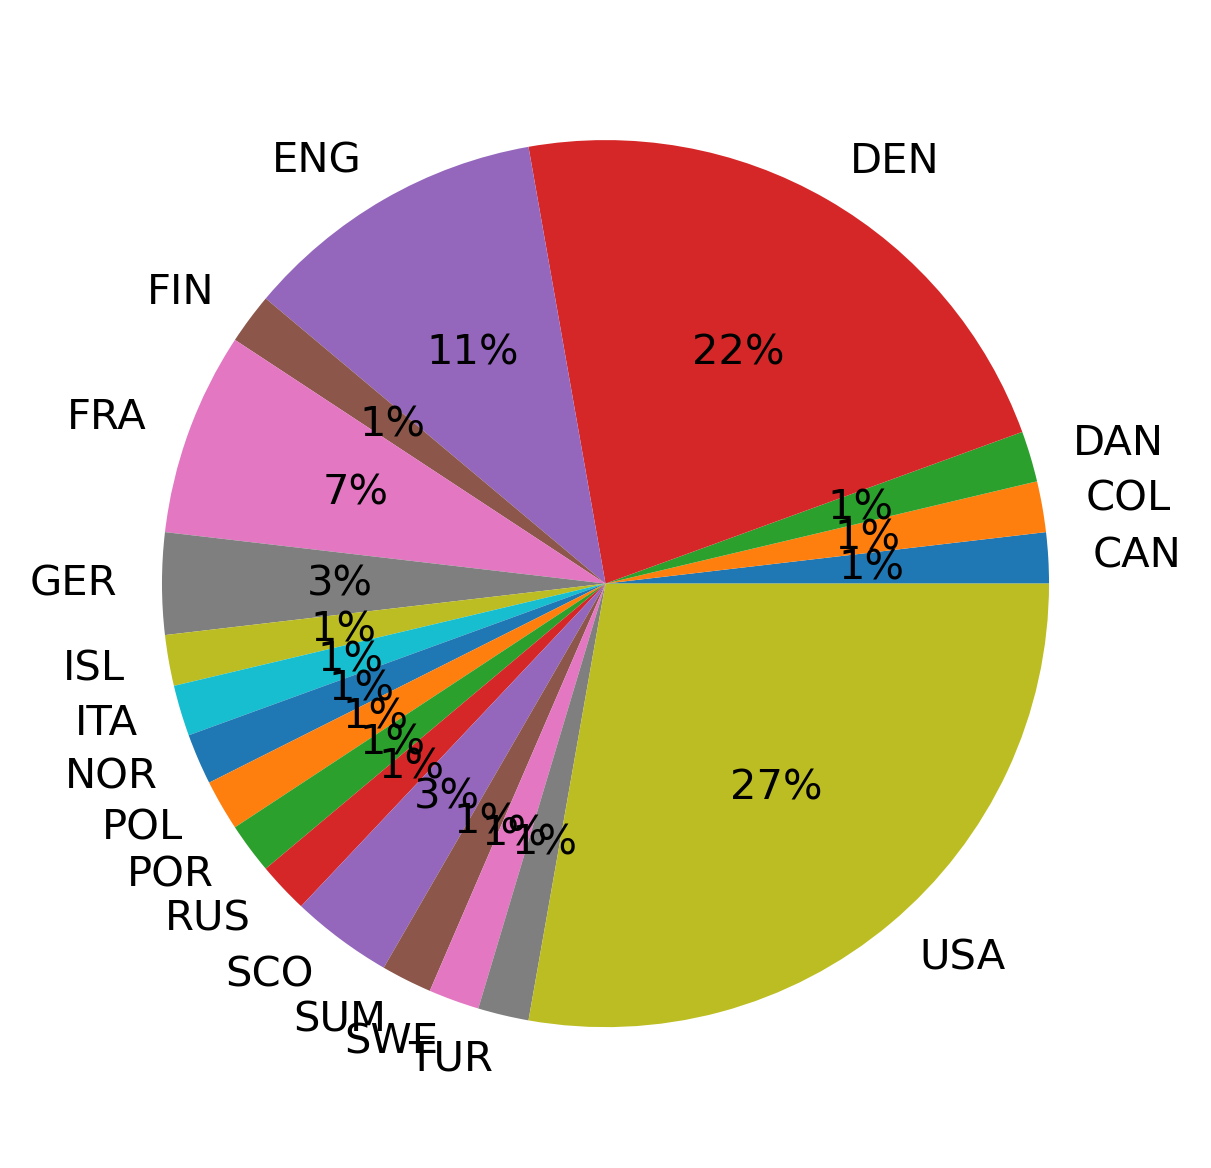
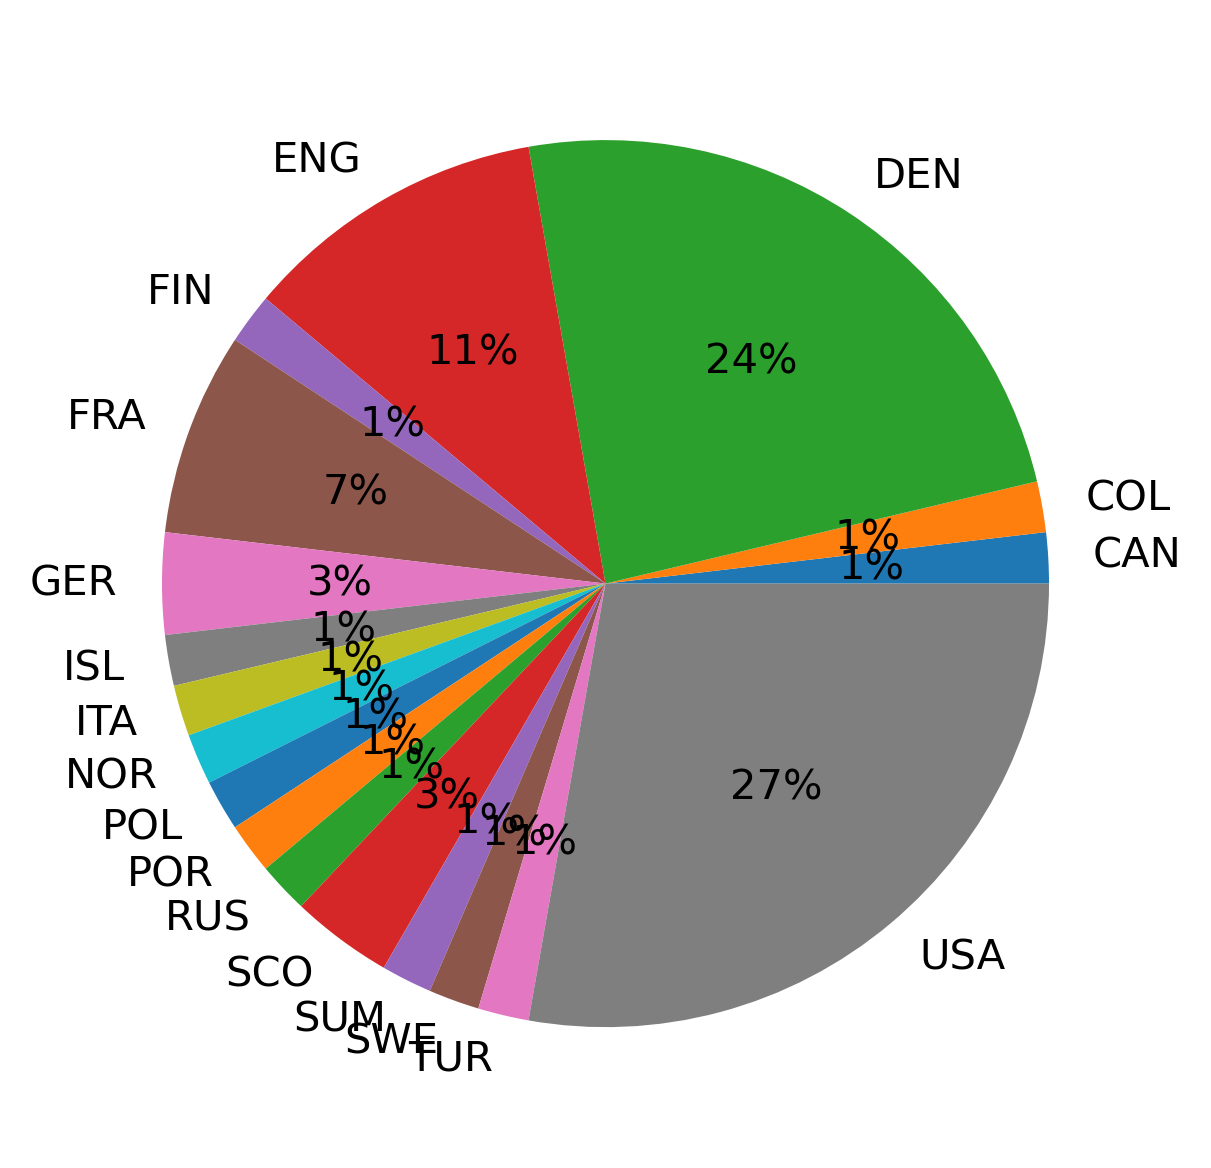
ønskeseddel

diff --git a/stuff/dillertableEN.html b/stuff/dillertableEN.html
@@ -1,4 +1,4 @@
-<tr class="item"><td style="font-size:10px;">2023.08.11</td><td>Tove Ditlevsen                             </td><td>DAN</td><td><strong>A Child was hurt</strong>                                   </td><td> 1941</td><td>168</td><td colspan=2>(currently reading)</td></tr>
+<tr class="item"><td style="font-size:10px;">2023.08.11</td><td>Tove Ditlevsen                             </td><td>DEN</td><td><strong>A Child was hurt</strong>                                   </td><td> 1941</td><td>168</td><td colspan=2>(currently reading)</td></tr>
 <tr class="item"><td style="font-size:10px;">2023.06.17</td><td>John Fante                                 </td><td>USA</td><td><strong>Ask the Dust</strong>                                       </td><td> 1939</td><td>202</td><td>3.6</td><td>±0.2</td></tr>
 <tr class="item"><td style="font-size:10px;">2023.04.06</td><td>Göran Tunström                             </td><td>SWE</td><td><strong>The Christmas Oratorio</strong>                             </td><td> 1983</td><td>326</td><td>3.2</td><td>±0.8</td></tr>
 <tr class="item"><td style="font-size:10px;">2023.10.02</td><td>Édouard Louis                              </td><td>FRA</td><td><strong>The End of Eddy</strong>                                    </td><td> 2014</td><td>220</td><td>4.2</td><td>±0.2</td></tr>

diff --git a/stuff/dillertableDK.html b/stuff/dillertableDK.html
@@ -1,4 +1,4 @@
-<tr class="item"><td style="font-size:10px;">2023.08.11</td><td>Tove Ditlevsen                             </td><td>DAN</td><td><strong>Man gjorde et barn fortræd</strong>           </td><td> 1941</td><td>168</td><td colspan=2>(læser i øjeblikket)</td></tr>
+<tr class="item"><td style="font-size:10px;">2023.08.11</td><td>Tove Ditlevsen                             </td><td>DEN</td><td><strong>Man gjorde et barn fortræd</strong>           </td><td> 1941</td><td>168</td><td colspan=2>(læser i øjeblikket)</td></tr>
 <tr class="item"><td style="font-size:10px;">2023.06.17</td><td>John Fante                                 </td><td>USA</td><td><strong>I støvet</strong>                             </td><td> 1939</td><td>202</td><td>3.6</td><td>±0.2</td></tr>
 <tr class="item"><td style="font-size:10px;">2023.04.06</td><td>Göran Tunström                             </td><td>SWE</td><td><strong>Juleoratoriet</strong>                        </td><td> 1983</td><td>326</td><td>3.2</td><td>±0.8</td></tr>
 <tr class="item"><td style="font-size:10px;">2023.10.02</td><td>Édouard Louis                              </td><td>FRA</td><td><strong>Færdig med Eddy Bellegueule</strong>          </td><td> 2014</td><td>220</td><td>4.2</td><td>±0.2</td></tr>

diff --git a/stuff/ønskeseddel.html b/stuff/ønskeseddel.html
@@ -225,6 +225,9 @@
                                         <h4>Køkkenting</h4>
                                         <ul>
                                             <li>
+                                                Frokosttallerkner med fiskemotiver fra den lidt for dyre marskandiser ved siden af Amars grønthandel.
+                                            </li>
+                                            <li>
                                                 Tragt med bred udgang, så jeg ikke spilder kaffen fra kværnen til kanden, med en nedre diameter på XXX mm.; en såkaldt "coffee grinder funnel" à la dem her:<br>
                                                 <img height=75px src="../pics/funnel1.jpg">
                                                 <img height=75px src="../pics/funnel2.jpg">

diff --git a/stuff/diller.py b/stuff/diller.py
@@ -31,7 +31,7 @@ def dillit(language      = 'dk',
     xyJ = '?'
     #                0          1                                            2     3       4                                       5                                                     6     7    8     9    10    11    12
     #                                                                                                                                                                                             Mi    Mo    Je    Kl    Pe
-    books = [['2023.08.11', 'Tove Ditlevsen'                             , 'DAN', 'F', 'Man gjorde et barn fortræd'           , 'A Child was hurt'                                   , 1941, 168, nan , nan , nan , nan , nan],
+    books = [['2023.08.11', 'Tove Ditlevsen'                             , 'DEN', 'F', 'Man gjorde et barn fortræd'           , 'A Child was hurt'                                   , 1941, 168, nan , nan , nan , nan , nan],
              ['2023.06.17', 'John Fante'                                 , 'USA', 'M', 'I støvet'                             , 'Ask the Dust'                                       , 1939, 202, 3.5 , 3.5 , 4.0 , 3.5 , 3.5],
              ['2023.04.06', 'Göran Tunström'                             , 'SWE', 'M', 'Juleoratoriet'                        , 'The Christmas Oratorio'                             , 1983, 326, 2.0 , 2.5 , 4.0 , 3.5 , 4.0],
              ['2023.10.02', 'Édouard Louis'                              , 'FRA', 'M', 'Færdig med Eddy Bellegueule'          , 'The End of Eddy'                                    , 2014, 220, 4.5 , 4.5 , 4   , 4   , 4  ],
